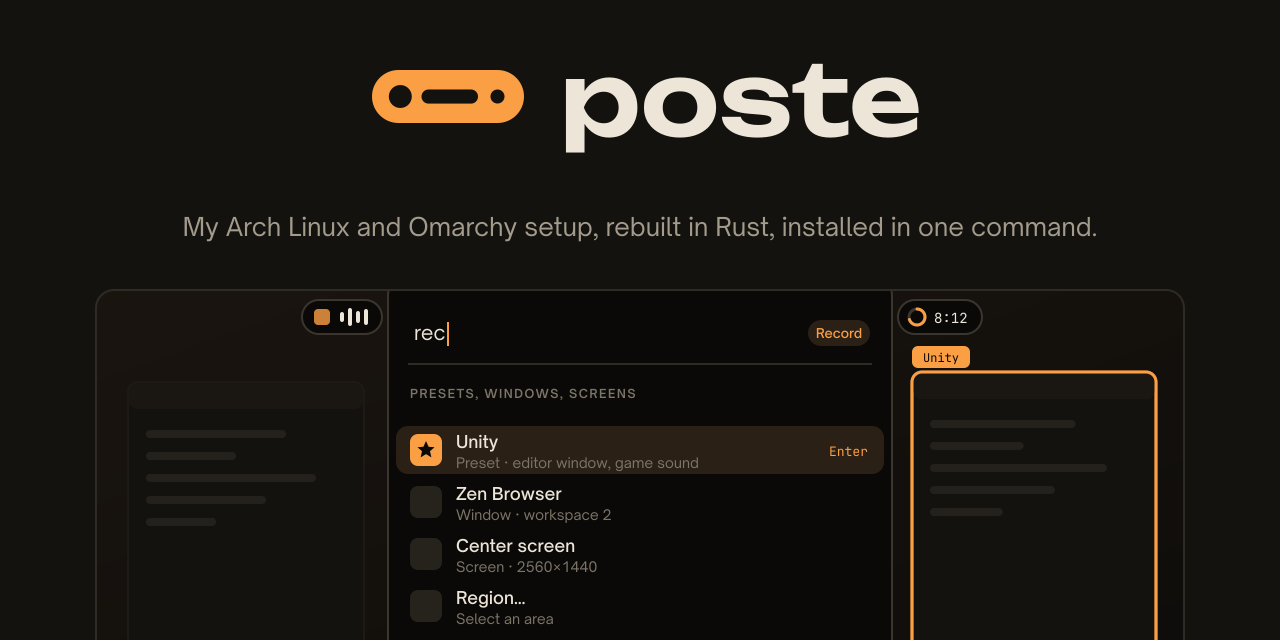
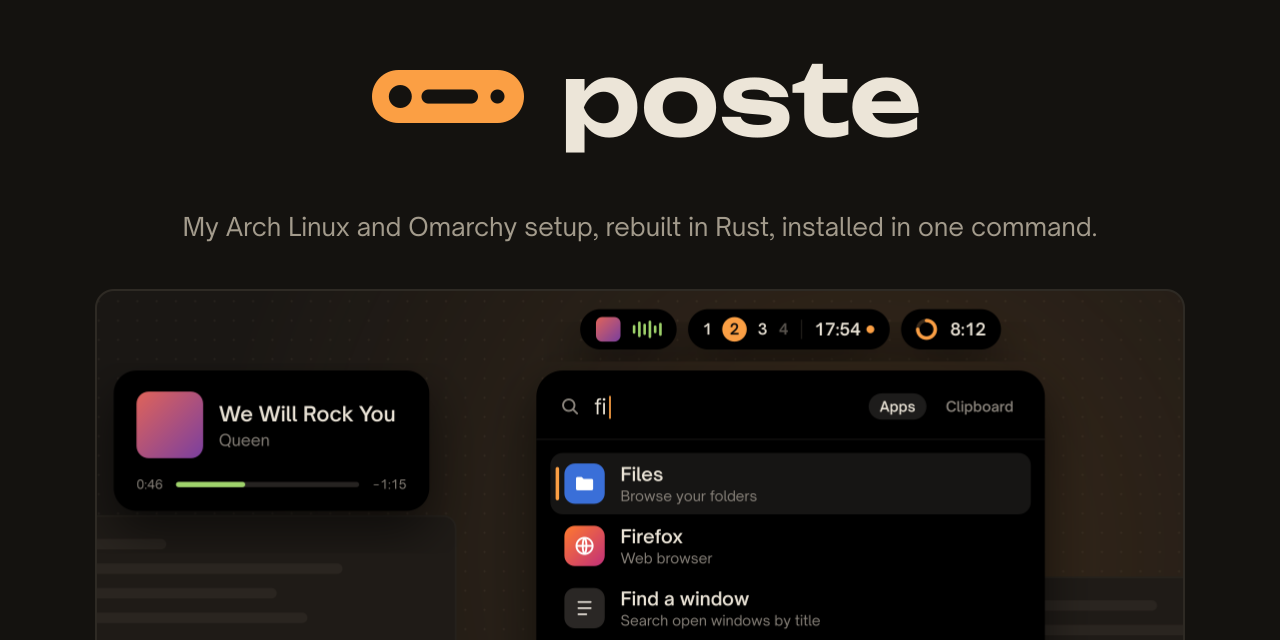
brand: the social preview drawn from a screen anyone reads, the launcher on a search and a song playing, no wallpaper; screen.svg on its own for the portfolio

Changed region(s): [[0.0938, 0.4375, 0.9375, 1.0], [0.875, 0.9688, 0.9375, 1.0]]

diff --git a/assets/brand/README.md b/assets/brand/README.md
@@ -11,18 +11,22 @@ text `#ece5d8`.
 | `icon.svg` | the icon: the mark on a dark rounded square |
 | `icon-full.svg` | the full icon: an orange square with a dark pill |
 | `favicon.svg`, `favicon.ico` | the favicon, drawn for 16 to 64 pixels |
-| `social-preview.svg` | the social preview of the repository and the banner of the README: the mark, the name, the tagline, and the island unfolded into the launcher on the Record extension, its selected row framing its target window, drawn (no capture) |
+| `screen.svg` | the island on a plain screen, no wallpaper: what plays, the workspaces, the time and a timer, the launcher unfolded on a search, and the song playing, drawn (no capture); the header of the poste article on kristenjestin.fr |
+| `social-preview.svg` | the social preview of the repository and the banner of the README: the mark, the name, the tagline, and `screen.svg` framed below them |
 
 `png/` holds the icon at 128, 256, 512 and 1024 pixels, `apple-touch-icon.png`, the favicon at 16
-and 32, and `social-preview.png`.
+and 32, `screen.png` and `social-preview.png`.
 
 The name is set in Unbounded SemiBold, the text in Open Sauce Sans and the commands in JetBrains
 Mono (all three under the SIL Open Font License). They are not in the repository: with them
 installed, the preview is rendered by librsvg:
 
 ```sh
+rsvg-convert assets/brand/screen.svg -o assets/brand/png/screen.png
 rsvg-convert assets/brand/social-preview.svg -o assets/brand/png/social-preview.png
 ```
+
+librsvg needs the TTF files: with the WOFF2 ones it quietly falls back to another typeface.
 
 `png/social-preview.png` is uploaded by hand in the repository's settings on GitHub (Settings,
 General, Social preview), as GitHub offers no other way.

diff --git a/README.md b/README.md
@@ -1,6 +1,6 @@
 <div align="center">
 
-<img src="assets/brand/png/social-preview.png" alt="poste: the island unfolded into the launcher on the Record extension, the selected preset framing its window on the screen" width="100%">
+<img src="assets/brand/png/social-preview.png" alt="poste: the island at the top of the screen, a song playing and a timer running, and the launcher unfolded on a search" width="100%">
 
 [![Archive of main](https://github.com/KristenJestin/poste/actions/workflows/archive.yml/badge.svg?branch=main)](https://github.com/KristenJestin/poste/actions/workflows/archive.yml)
 [![Latest build](https://img.shields.io/badge/build-latest-fb9f44)](https://github.com/KristenJestin/poste/releases/tag/latest)
